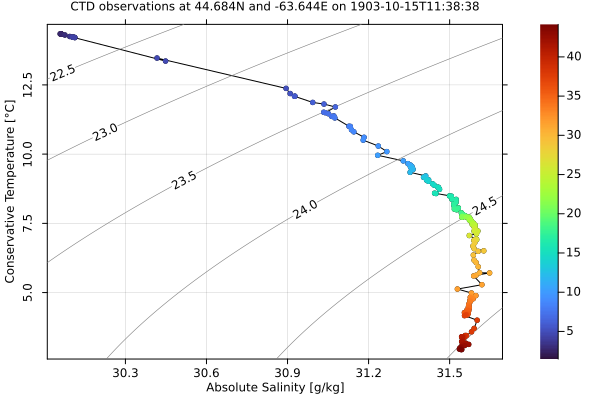
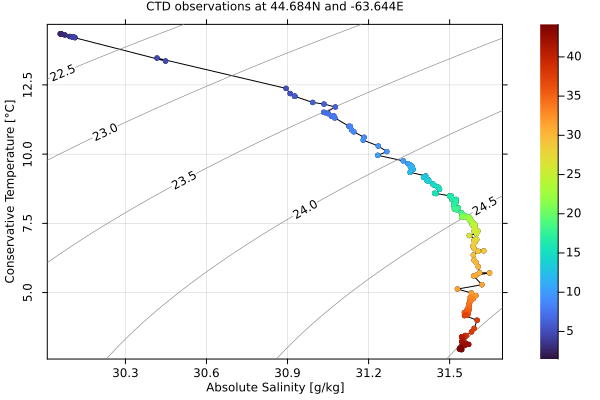
Don't show time in ctd examples because it's VERY wrong

Changed region(s): [[0.12, 0.0, 0.81, 0.03]]

diff --git a/docs/src/examples.md b/docs/src/examples.md
@@ -273,8 +273,8 @@ ctd = read_ctd_cnv(filename);
 p1 = plot_profile(ctd; which="CT");
 p2 = plot_profile(ctd; which="SA");
 p3 = plot_profile(ctd; which="sigma0");
-title = @sprintf("CTD observations at %.3fN and %.3fE on %s",
-    ctd["latitude"], ctd["longitude"], ctd["time"])
+title = @sprintf("CTD observations at %.3fN and %.3fE",
+    ctd["latitude"], ctd["longitude"])
 plot(p1, p2, p3, layout=(1, 3), size=(800, 600), margin=0.25cm,
     dpi=200, plot_title=title, plot_titlefontsize=11)
 savefig("ctd_profiles.png")
@@ -292,7 +292,8 @@ borders painting over the colors of nearby markers.
 using OceanAnalysis, Dates, Measures, Plots, Printf
 filename = joinpath(dirname(dirname(pathof(OceanAnalysis))), "data", "ctd.cnv")
 ctd = read_ctd_cnv(filename);
-title = @sprintf "CTD observations at %.3fN and %.3fE on %s" ctd["latitude"] ctd["longitude"] ctd["time"]
+title = @sprintf("CTD observations at %.3fN and %.3fE",
+    ctd["latitude"], ctd["longitude"])
 plot_TS(ctd, ms=3, title=title, markerstrokewidth=0, color_by="pressure")
 savefig("ctd_TS.png")
 ```
